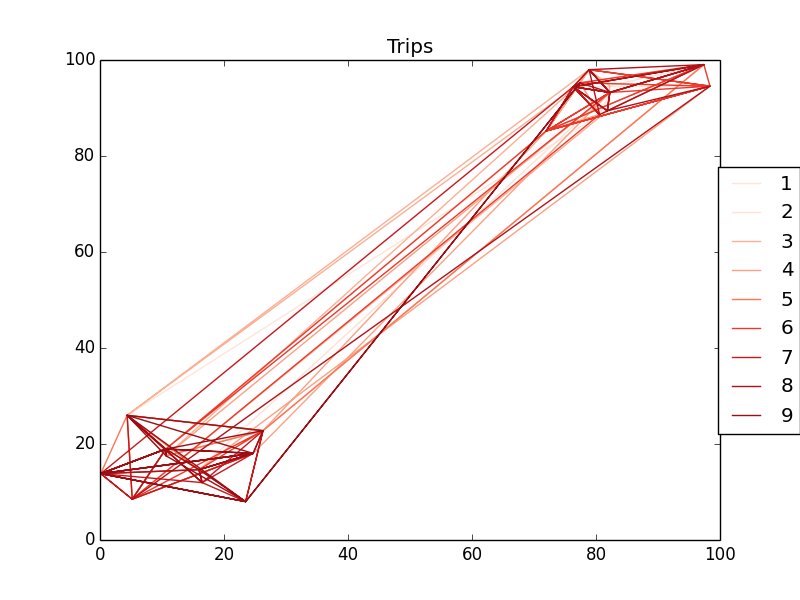
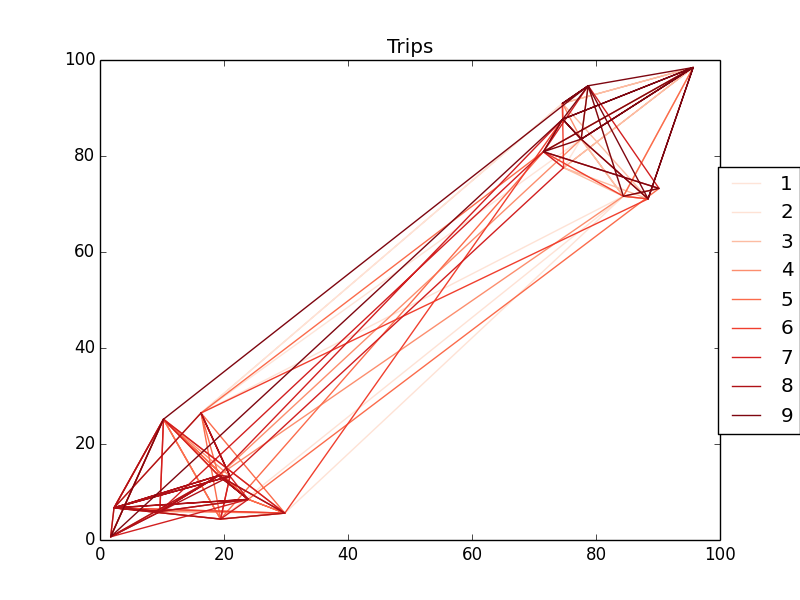
한 번에 10개씩

Changed region(s): [[0.125, 0.09, 0.9062, 0.9]]

diff --git a/Simulator.py b/Simulator.py
@@ -207,7 +207,7 @@ class Simulator:
         f.close()
 
 if __name__ == "__main__":
-    n = 1
+    n = 10
     off = False
     for i in range(n) :
         S = Simulator(MapType='clust', ReqType='CS2')
